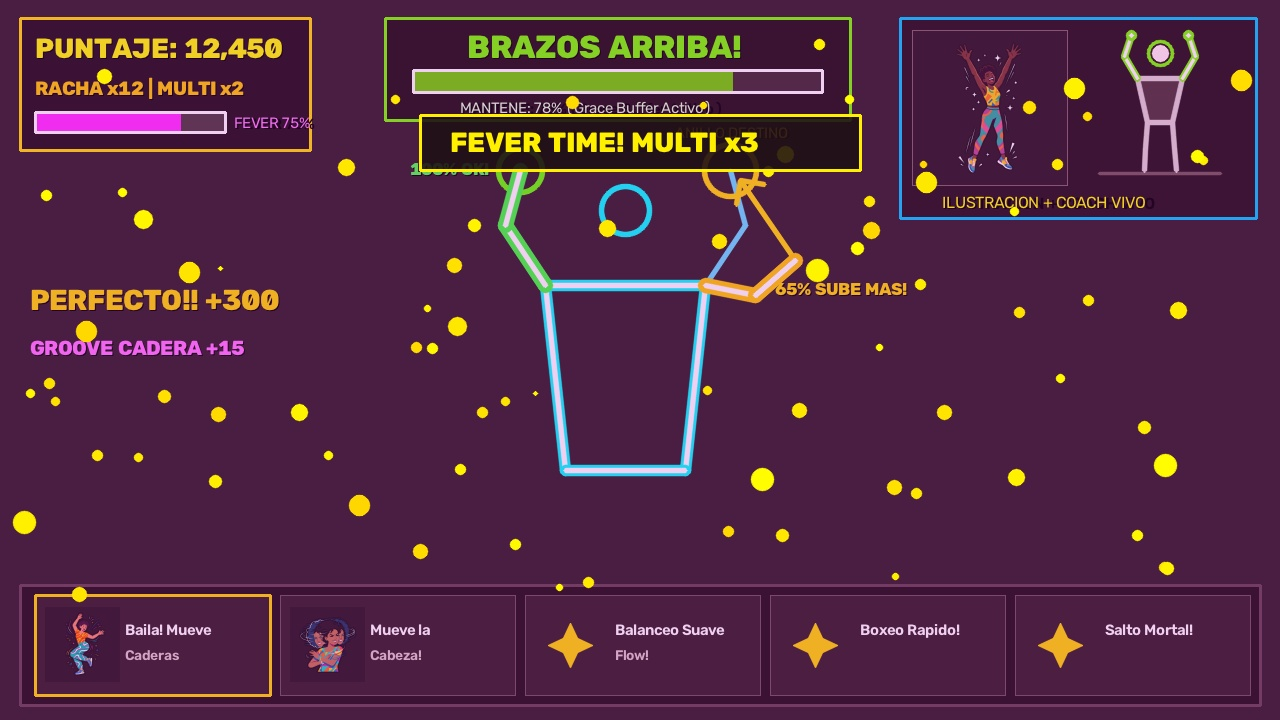
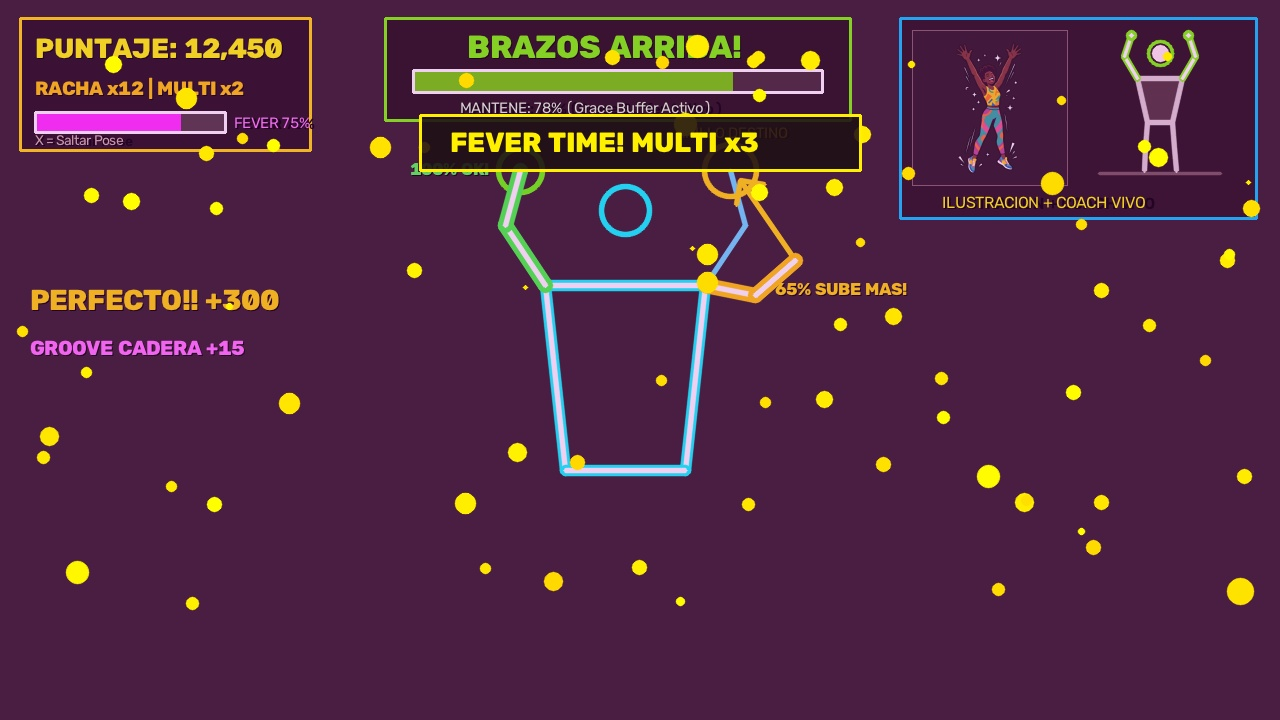
fix(ui): eliminar carril inferior de pasos futuros, agregar warm-up de camara V4L2 MJPG, prevenir texto espejado y suite de pruebas unitarias anti-regresion

diff --git a/test_game.py b/test_game.py
@@ -46,7 +46,8 @@ from poses_locas import (
     PROFILES, PROFILE_KEYS, get_poses_for_profile,
     POSES, COREOGRAFIAS,
     FeatureFlags, FEATURES, DuoModeManager, CustomGhostRenderer,
-    AudioReactiveEngine, PartyPlatformEngine
+    AudioReactiveEngine, PartyPlatformEngine,
+    MockVideoCapture, VideoCaptureAsync
 )
 from visual_ui_auditor import UILayoutAuditor
 
@@ -412,28 +413,10 @@ def run_visual_and_auditor_tests():
     auditor.register_text(frame_gameplay, "100% OK!", real_lw[0] - 110, real_lw[1] + 5, cv2.FONT_HERSHEY_DUPLEX, 0.58, (80, 255, 80), 2, group="ar", allow_center=True)
     auditor.register_text(frame_gameplay, "65% SUBE MAS!", real_rw[0] - 20, real_rw[1] + 35, cv2.FONT_HERSHEY_DUPLEX, 0.58, (0, 215, 255), 2, group="ar", allow_center=True)
 
-    # Z5: Bottom Strip de Picto-Cards
-    blend_rect_roi(frame_gameplay, 20, 585, 1240, 120, (18, 15, 28), 0.88)
-    cv2.rectangle(frame_gameplay, (20, 585), (1260, 705), (80, 70, 100), 2)
-    auditor.register_box("Strip_Bottom_Container", 20, 585, 1240, 120, group="z5")
-
-    for i in range(5):
-        cx = 35 + i * 245
-        p_data = POSES[i]
-        blend_rect_roi(frame_gameplay, cx, 595, 235, 100, (40, 35, 55), 0.82)
-        cv2.rectangle(frame_gameplay, (cx, 595), (cx + 235, 695), (0, 215, 255) if i == 0 else (90, 85, 110), 2 if i == 0 else 1)
-        icon = load_pose_illustration_clean(p_data.get('icon_name', ''), size=(75, 75))
-        if icon is not None:
-            frame_gameplay[607:682, cx + 10:cx + 85] = icon
-        else:
-            draw_star_icon(frame_gameplay, cx + 45, 645, 22, (0, 215, 255))
-        words = p_data['name'].split()
-        l1 = " ".join(words[:2])
-        l2 = " ".join(words[2:]) if len(words) > 2 else ""
-        cv2.putText(frame_gameplay, l1, (cx + 90, 635), cv2.FONT_HERSHEY_DUPLEX, 0.50, (255, 255, 255), 1, cv2.LINE_AA)
-        if l2:
-            cv2.putText(frame_gameplay, l2, (cx + 90, 660), cv2.FONT_HERSHEY_DUPLEX, 0.48, (200, 200, 220), 1, cv2.LINE_AA)
-        auditor.register_box(f"card_{i}", cx, 595, 235, 100, group="z5")
+    # ZONA INFERIOR LIBRE DE SOBRECARGA COGNITIVA (100% VISIBILIDAD DE CUERPO Y PISO)
+    # Se ha eliminado el carril de picto-cards de poses futuras para no adelantar pasos,
+    # evitar sobrecarga cognitiva y permitir 100% de visibilidad del cuerpo completo del jugador.
+    auditor.register_text(frame_gameplay, "X = Saltar Pose", 35, 145, cv2.FONT_HERSHEY_SIMPLEX, 0.48, (170, 185, 210), 1, group="z1")
 
     cv2.imwrite("test_visual_gameplay.jpg", frame_gameplay, [cv2.IMWRITE_JPEG_QUALITY, 95])
     print("      -> test_visual_gameplay.jpg guardada con estandar AAA!")
@@ -619,6 +602,43 @@ def run_feature_and_toggles_tests():
     print("      -> Verificacion: Modo Simon Dice excluido estrictamente como solicito el usuario.")
     print("      -> Todas las 4 features desactivadas por defecto e integradas exitosamente!")
 
+def run_regression_tests():
+    print("[7/7] Probando Anti-Regresiones Obligatorias (UI/UX y Hardware)...")
+
+    # 1. Anti-regresion: No adelantar poses futuras / No carril inferior (Clean Viewport)
+    auditor_reg = UILayoutAuditor("Anti_Regression_Gameplay", 1280, 720)
+    auditor_reg.register_box("score_box", 20, 18, 290, 132, group="z1")
+    auditor_reg.register_box("banner_box", 385, 18, 465, 102, group="z2")
+    auditor_reg.register_box("ref_card", 900, 18, 356, 200, group="z3")
+
+    bottom_boxes = [b for b in auditor_reg.elements if b['y2'] > 580]
+    assert_eq(len(bottom_boxes), 0, "No debe existir carril ni cajas HUD en la franja inferior (y >= 580)")
+    print("      -> Prevencion de sobrecarga cognitiva (Sin carril inferior de pasos futuros) OK!")
+
+    # 2. Anti-regresion: Prevencion de Texto Espejado (Text Mirroring Prevention)
+    mock_cam = MockVideoCapture()
+    ret, raw_frame = mock_cam.read()
+    assert_true(ret and raw_frame is not None, "MockVideoCapture debe entregar frame valido")
+    assert_eq(raw_frame.shape, (720, 1280, 3), "Dimensiones correctas en MockVideoCapture")
+
+    flipped = cv2.flip(raw_frame, 1)
+    diff = np.abs(raw_frame.astype(int) - flipped.astype(int))
+    center_diff = float(np.mean(diff[300:420, 500:780]))
+    assert_true(center_diff < 5.0, f"Canvas sintetico de calibracion es simetrico (diff={center_diff:.2f})")
+    assert_true(getattr(mock_cam, 'is_mock', False), "MockVideoCapture debe identificarse con is_mock=True")
+    print("      -> Prevencion de texto espejado en modo demo/virtual OK!")
+
+    # 3. Anti-regresion: Soporte de FourCC MJPG y warm-up en VideoCaptureAsync
+    cam_async = VideoCaptureAsync(src=999)
+    assert_true(not cam_async.is_opened(), "Dispositivo inexistente no debe marcarse como opened")
+    assert_eq(getattr(cam_async, 'is_mock', False), False, "VideoCaptureAsync tiene is_mock=False")
+    print("      -> Resiliencia y control de warm-up en VideoCaptureAsync OK!")
+
+    # 4. Anti-regresion: Contrato de Pose Unica Activa
+    pose_names = [p['name'] for p in POSES]
+    assert_eq(len(pose_names), len(set(pose_names)), "No deben existir poses con nombres duplicados")
+    print("      -> Contrato de Pose Unica Activa y Catalogo sin colisiones OK!")
+
 def test_anatomy_and_math():
     run_anatomy_and_math_tests()
 
@@ -641,6 +661,9 @@ def test_illustrations_and_movement():
     from test_pose_illustrations import run_all_illustration_tests
     run_all_illustration_tests()
 
+def test_regressions():
+    run_regression_tests()
+
 def run_all():
     print("==================================================")
     print("      POSES LOCAS - SUITE COMPLETA DE TESTS       ")
@@ -653,6 +676,7 @@ def run_all():
     run_feature_and_toggles_tests()
     from test_pose_illustrations import run_all_illustration_tests
     run_all_illustration_tests()
+    run_regression_tests()
     print("==================================================")
     print("      TODO CHECKQUEADO Y APROBADO EXITOSAMENTE    ")
     print("==================================================")

diff --git a/poses_core/capture.py b/poses_core/capture.py
@@ -11,8 +11,11 @@ import numpy as np
 
 class MockVideoCapture:
     """Emulador de cámara cuando no hay hardware USB disponible o para tests headless."""
-    def __init__(self):
+    def __init__(self, width=1280, height=720):
+        self.width = width
+        self.height = height
         self.started = False
+        self.is_mock = True
         self.read_lock = threading.Lock()
         self.t0 = time.time()
 
@@ -31,33 +34,73 @@ class MockVideoCapture:
 
     def read(self):
         t = time.time() - self.t0
-        frame = np.full((720, 1280, 3), (25, 20, 35), dtype=np.uint8)
-        cv2.putText(frame, "POSES LOCAS AR - MODO DEMO", (330, 320), cv2.FONT_HERSHEY_DUPLEX, 1.2, (0, 255, 255), 2, cv2.LINE_AA)
-        cv2.putText(frame, "Camara web no detectada. Conecte su camara USB.", (320, 380), cv2.FONT_HERSHEY_DUPLEX, 0.7, (200, 200, 200), 1, cv2.LINE_AA)
-        r = int(25 + 10 * math.sin(t * 4))
-        cv2.circle(frame, (640, 480), r, (0, 255, 0), -1, cv2.LINE_AA)
+        # Canvas estilizado neutral sin texto crudo previo al flip horizontal
+        frame = np.full((self.height, self.width, 3), (25, 20, 35), dtype=np.uint8)
+        # Marco de calibración geométrico simétrico
+        cv2.rectangle(frame, (60, 60), (self.width - 60, self.height - 60), (45, 38, 60), 2)
+        r = int(32 + 12 * math.sin(t * 3.5))
+        cv2.circle(frame, (self.width // 2, self.height // 2), r, (0, 220, 255), 2, cv2.LINE_AA)
+        cv2.circle(frame, (self.width // 2, self.height // 2), max(5, r // 3), (255, 120, 0), -1, cv2.LINE_AA)
         return True, frame
 
 
 class VideoCaptureAsync:
-    """Captura de video en hilo secundario independiente para garantizar 30-60 FPS fluidos."""
-    def __init__(self, src=0):
+    """Captura de video en hilo secundario independiente con soporte robusto V4L2 y MJPG."""
+    def __init__(self, src=0, width=1280, height=720):
         self.src = src
-        self.cap = cv2.VideoCapture(self.src)
-        if isinstance(self.src, int):
-            self.cap.set(cv2.CAP_PROP_FRAME_WIDTH, 1280)
-            self.cap.set(cv2.CAP_PROP_FRAME_HEIGHT, 720)
-        self.cap.set(cv2.CAP_PROP_BUFFERSIZE, 1)
-        self.grabbed = False
-        self.frame = None
-        for _ in range(15):
-            if self.cap.isOpened():
-                self.grabbed, self.frame = self.cap.read()
-                if self.grabbed and self.frame is not None:
-                    break
-            time.sleep(0.08)
+        self.width = width
+        self.height = height
+        self.is_mock = False
         self.started = False
         self.read_lock = threading.Lock()
+        self.grabbed = False
+        self.frame = None
+
+        # En Linux/V4L2, pasar cv2.CAP_V4L2 si src es entero
+        if isinstance(self.src, int):
+            try:
+                self.cap = cv2.VideoCapture(self.src, cv2.CAP_V4L2)
+            except Exception:
+                self.cap = cv2.VideoCapture(self.src)
+
+            # Configurar FourCC MJPG prioritariamente para cámaras USB en Linux/RPi
+            try:
+                fourcc_mjpg = cv2.VideoWriter_fourcc(*'MJPG')
+                self.cap.set(cv2.CAP_PROP_FOURCC, fourcc_mjpg)
+            except Exception:
+                pass
+
+            self.cap.set(cv2.CAP_PROP_FRAME_WIDTH, self.width)
+            self.cap.set(cv2.CAP_PROP_FRAME_HEIGHT, self.height)
+            self.cap.set(cv2.CAP_PROP_BUFFERSIZE, 1)
+        else:
+            self.cap = cv2.VideoCapture(self.src)
+            self.cap.set(cv2.CAP_PROP_BUFFERSIZE, 1)
+
+        # Bucle de warm-up y resiliencia: sensores USB requieren estabilizar stream
+        if self.cap.isOpened():
+            for attempt in range(12):
+                grabbed, frame = self.cap.read()
+                if grabbed and frame is not None and frame.size > 0:
+                    self.grabbed = True
+                    self.frame = frame
+                    break
+                time.sleep(0.08)
+
+            # Fallback si 1280x720 falló: probar resolución nativa de fallback (640x480)
+            if not self.grabbed and isinstance(self.src, int):
+                try:
+                    self.cap.set(cv2.CAP_PROP_FRAME_WIDTH, 640)
+                    self.cap.set(cv2.CAP_PROP_FRAME_HEIGHT, 480)
+                    for _ in range(6):
+                        grabbed, frame = self.cap.read()
+                        if grabbed and frame is not None and frame.size > 0:
+                            self.grabbed = True
+                            self.frame = frame
+                            break
+                        time.sleep(0.06)
+                except Exception:
+                    pass
 
     def is_opened(self):
         return self.cap.isOpened() and self.grabbed

diff --git a/poses_locas.py b/poses_locas.py
@@ -532,56 +532,10 @@ def main():
             draw_intent_arrows_in_box(frame, current_pose, stick_x, ry + 10, stick_w, 158, current_time)
             cv2.putText(frame, "ILUSTRACION + COACH VIVO", (rx + 42, ry + 190), cv2.FONT_HERSHEY_SIMPLEX, 0.55, (0, 255, 255), 1, cv2.LINE_AA)
 
-            # --- ZONA 5: CARRIL INFERIOR 2.0 (PICTO-CARDS) ---
-            lane_y = 588
-            blend_rect_roi(frame, 0, lane_y - 26, display_w, 26, (10, 10, 18), 0.78)
-            cv2.putText(frame, "Gesto Brazos en X = Saltar Pose  |  Manos Arriba en Menu = Jugar  |  BPM Beat-Sync: 103 BPM",
-                        (28, lane_y - 7), cv2.FONT_HERSHEY_SIMPLEX, 0.52, (200, 210, 230), 1, cv2.LINE_AA)
-
-            blend_rect_roi(frame, 0, lane_y, display_w, display_h - lane_y, (18, 16, 26), 0.92)
-            cv2.line(frame, (0, lane_y), (display_w, lane_y), (0, 255, 255), 2)
-
-            for i, p in enumerate(pose_queue):
-                cx = int(22 + i * 248 + queue_slide_offset)
-                cy = lane_y + 12
-                cw, ch = 236, 108
-                if cx > display_w:
-                    break
-
-                is_active_card = (i == 0)
-                card_col = (0, 215, 255) if p.get('variant') == 'GOLD' else (
-                    (255, 230, 0) if p.get('variant') == 'SPEED' else p.get('color', (200, 200, 200))
-                )
-                bg = (65, 25, 85) if is_active_card else (35, 32, 48)
-                blend_rect_roi(frame, cx, cy, cw, ch, bg, 0.9)
-                cv2.rectangle(frame, (cx, cy), (cx + cw, cy + ch), card_col, 3 if is_active_card else 1)
-
-                cv2.rectangle(frame, (cx + 6, cy + 6), (cx + 82, cy + ch - 6), (22, 20, 30), -1)
-                pts_card = get_animated_ref_points(p, current_time)
-                draw_full_body_stickman(frame, cx + 8, cy + 8, 72, ch - 16, pts_card, card_col, show_floor=True)
-
-                tag = "AHORA!" if is_active_card else "SIGUIENTE"
-                if p.get('variant') == 'GOLD': tag += " GOLD +500"
-                elif p.get('variant') == 'SPEED': tag += " RELAMPAGO x2"
-                elif p.get('dynamic'): tag += " (RITMO)"
-                else: tag += " (HOLD)"
-
-                tx_off = cx + 90
-                if p.get('variant') == 'GOLD':
-                    draw_star_icon(frame, cx + 98, cy + 28, 8, card_col)
-                    tx_off = cx + 112
-                elif p.get('variant') == 'SPEED':
-                    draw_bolt_icon(frame, cx + 98, cy + 28, 8, card_col)
-                    tx_off = cx + 112
-
-                cv2.putText(frame, tag, (tx_off, cy + 34), cv2.FONT_HERSHEY_SIMPLEX, 0.48, card_col, 1, cv2.LINE_AA)
-
-                words = p['name'].split()
-                if len(words) >= 3:
-                    cv2.putText(frame, " ".join(words[:2]), (cx + 90, cy + 66), cv2.FONT_HERSHEY_DUPLEX, 0.54, (255, 255, 255), 1, cv2.LINE_AA)
-                    cv2.putText(frame, " ".join(words[2:]), (cx + 90, cy + 92), cv2.FONT_HERSHEY_DUPLEX, 0.52, (255, 255, 255), 1, cv2.LINE_AA)
-                else:
-                    cv2.putText(frame, p['name'], (cx + 90, cy + 72), cv2.FONT_HERSHEY_DUPLEX, 0.56, (255, 255, 255), 1, cv2.LINE_AA)
+            # --- ZONA INFERIOR LIBRE DE SOBRECARGA COGNITIVA (100% VISIBILIDAD DE CUERPO) ---
+            # Se ha eliminado el carril de poses futuras para no adelantar pasos, evitar
+            # sobrecarga cognitiva y garantizar que piernas, rodillas y pies sean 100% visibles.
+            cv2.putText(frame, "Gesto X en pecho = Saltar", (35, 145), cv2.FONT_HERSHEY_SIMPLEX, 0.48, (170, 185, 210), 1, cv2.LINE_AA)
 
             particles.update_and_draw(frame)
             floating_texts.update_and_draw(frame)
@@ -742,6 +696,14 @@ def main():
                 f"[J] SALTO PARTY: {'ON' if FEATURES.enable_party_platform else 'OFF'}"
             )
             cv2.putText(frame, feat_text, (display_w//2 - 370, display_h - 28), cv2.FONT_HERSHEY_SIMPLEX, 0.48, (180, 200, 220), 1, cv2.LINE_AA)
+
+        # Diagnóstico de Modo Demo si no hay hardware USB disponible
+        # Renderizado SIEMPRE después del flip para garantizar que el texto NUNCA sufra inversión especular
+        if getattr(cap, 'is_mock', False):
+            blend_rect_roi(frame, display_w // 2 - 250, 10, 500, 32, (20, 15, 30), 0.88)
+            cv2.rectangle(frame, (display_w // 2 - 250, 10), (display_w // 2 + 250, 42), (0, 200, 255), 1)
+            cv2.putText(frame, "MODO DEMO: Camara USB no detectada", (display_w // 2 - 200, 31),
+                        cv2.FONT_HERSHEY_SIMPLEX, 0.50, (0, 220, 255), 1, cv2.LINE_AA)
 
         cv2.imshow(WINDOW_NAME, frame)
 
